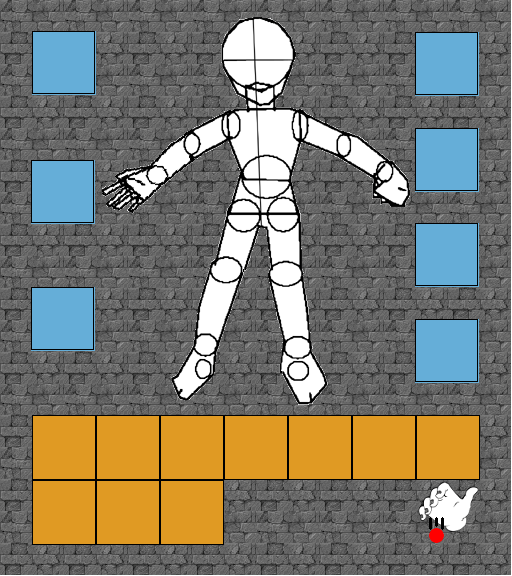
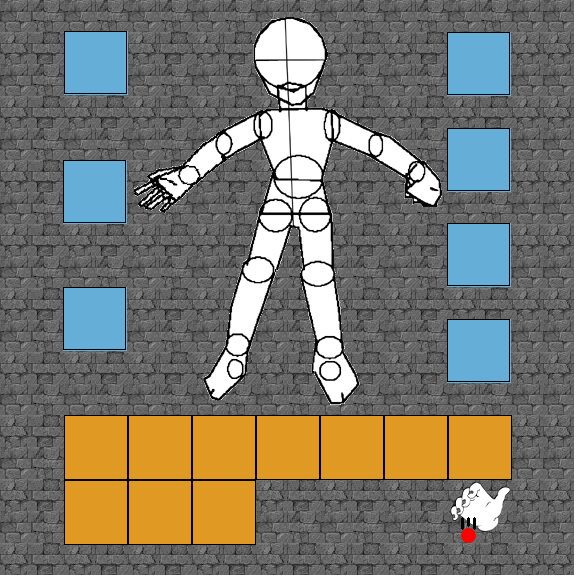
Start displaying and managing Inventory + Corrected error when resizing

Changed region(s): [[0.0, 0.0, 0.9688, 1.0]]

diff --git a/public_html/js/classes/Game.js b/public_html/js/classes/Game.js
@@ -6,7 +6,7 @@ class Game {
     setBaseSizes() {
         can.setSize();
         info.setPos();
-        tileSizeOnScreen = Math.floor(can.size*percentOfScreen);        
+        tileSizeOnScreen = Math.floor(can.size/nbTilesPerLine);        
     };
     /*
      * Dessine les différents écrans d'interface
@@ -59,7 +59,9 @@ class Game {
             default:
                 break;   
         }   
-
+        
+        can.uiContext.clearRect(0, 0, can.size, can.size);
+        
         this.uiBasics();
         this.uiDrawText(textes, textes.length, fontSize);
     };
@@ -69,9 +71,43 @@ class Game {
         let startForm = document.getElementsByTagName('form')[0];
         startForm.style.display = 'block';
     };
-    uiInventaire() {
-        this.uiBasics();      
-        can.uiContext.drawImage(images.inv, can.ui.width*20/100, can.ui.height*20/100, can.ui.width*60/100, can.ui.height*60/100);
+    uiInventaire(hero) {  
+        can.uiContext.clearRect(0, 0, can.size, can.size);
+        
+        //Dessin du background
+        for(let i = 0; i < nbTilesPerLine; i++) {
+            for(let j = 0; j < nbTilesPerLine; j++) {
+                can.uiContext.drawImage(images.tileset, 12*TILESIZE, 4*TILESIZE, TILESIZE, TILESIZE, i*tileSizeOnScreen, j*tileSizeOnScreen, tileSizeOnScreen, tileSizeOnScreen);
+            }
+        }
+        
+        //Dessin des slots d'équipement
+        can.uiContext.fillStyle = '#65AED8';
+        for(let i = hero.bodySlot.length-1; i >= 0; i--) {
+            let x = (i%2 === 0)? 15 : 3;
+            let y = Math.floor(1.5 * i) + 1;
+            
+            can.uiContext.strokeRect(x * tileSizeOnScreen, y * tileSizeOnScreen, 2*tileSizeOnScreen, 2*tileSizeOnScreen);
+            can.uiContext.fillRect(x * tileSizeOnScreen, y * tileSizeOnScreen, 2*tileSizeOnScreen, 2*tileSizeOnScreen);  
+            
+            if(hero.bodySlot[i]) {
+                hero.bodySlot[i].draw(can.uiContext, images.items, true);
+            }
+        }
+        
+        //Dessin des slots d'inventaire
+        can.uiContext.fillStyle = '#E09A23';
+        for(let i = hero.inventaire.length-1; i >= 0; i--) {
+            let x = (i < 7)? 2 * i + 3 : 2 * (i-7) + 3;
+            let y = (i < 7)? 14 : 16;
+            
+            can.uiContext.strokeRect(x * tileSizeOnScreen, y * tileSizeOnScreen, 2*tileSizeOnScreen, 2*tileSizeOnScreen);
+            can.uiContext.fillRect(x * tileSizeOnScreen, y * tileSizeOnScreen, 2*tileSizeOnScreen, 2*tileSizeOnScreen);
+
+            if(hero.inventaire[i]) {
+                hero.inventaire[i].draw(can.uiContext, images.items, true);
+            }
+        }
     };
     gameScreen(carte, length) {
         can.itemsContext.clearRect(0,0,can.size, can.size);

diff --git a/public_html/js/main.js b/public_html/js/main.js
@@ -1,6 +1,6 @@
 //Taille des tuiles (sur les tilesets et à l'écran)
 const TILESIZE = 32;
-const percentOfScreen = 5/100;
+const nbTilesPerLine = 20;
 var tileSizeOnScreen = 0;
 
 //Chargement des images
@@ -152,12 +152,11 @@ function main() {
                             view.uiNewGame();
                             break;
                         case 'inv':
-                            view.uiInventaire();
-                            break;
-                        default:
-                            view.gameScreen(world.carte[world.lvl], world.nbTilesPerLine-1);
+                            view.uiInventaire(hero);
                             break;
                     }
+                    
+                    view.gameScreen(world.carte[world.lvl], world.nbTilesPerLine-1);
                 };
 
                 //Ajout des évenements sur les canvas
@@ -274,7 +273,7 @@ function main() {
                             case 73: //I
                                 can.state = 'inv';
                                 view.hideGame();
-                                view.uiInventaire();
+                                view.uiInventaire(hero);
                                 view.showUi();
                                 break;
                             case 79: //O

diff --git a/public_html/js/classes/Perso.js b/public_html/js/classes/Perso.js
@@ -59,8 +59,9 @@ class Hero extends Perso {
     constructor(x, y, name, st, dx, iq, ht, level) {
         super(x, y, name, st, dx, iq, ht, level);
       
-        this._vision = 2;
-        this._inventaire = [0,0,0,0,0,0,0,0,0,0];
+        this.vision = 2;
+        this.inventaire = [0,0,0,0,0,0,0,0,0,0];
+        this.bodySlot = [0,0,0,0,0,0,0];
 
         //Image à utiliser en fonction de la direction
         this.direction = {
@@ -74,10 +75,14 @@ class Hero extends Perso {
     };
     rangerObjet(item = null) {
         return new Promise((resolve, reject) => {
-            let index = this._inventaire.indexOf(0);
+            let index = this.inventaire.indexOf(0);
             
             if(item && index >= 0) {
-                this._inventaire[index] = item;
+                let x = (index < 7)? 2 * index + 3 : 2 * (index-7) + 3;
+                let y = (index < 7)? 14 : 16;
+
+                this.inventaire[index] = item;
+                this.inventaire[index].pos = [x,y];
                 resolve(item.nom);
             }
             else {

diff --git a/public_html/js/classes/Tuile.js b/public_html/js/classes/Tuile.js
@@ -25,8 +25,9 @@ class Tuile {
         this._imgX = parseInt(newCoord[0]);
         this._imgY = parseInt(newCoord[1]); 
     };
-    draw(context, image) {
-        context.drawImage(image, this._imgX*TILESIZE, this._imgY*TILESIZE, TILESIZE, TILESIZE, this._posX*tileSizeOnScreen, this._posY*tileSizeOnScreen, tileSizeOnScreen, tileSizeOnScreen);    
+    draw(context, image, inventaire = false) {
+        let size = (inventaire)? 2*tileSizeOnScreen : tileSizeOnScreen;
+        context.drawImage(image, this._imgX*TILESIZE, this._imgY*TILESIZE, TILESIZE, TILESIZE, this._posX*tileSizeOnScreen, this._posY*tileSizeOnScreen, size, size);    
     }
 };
 
